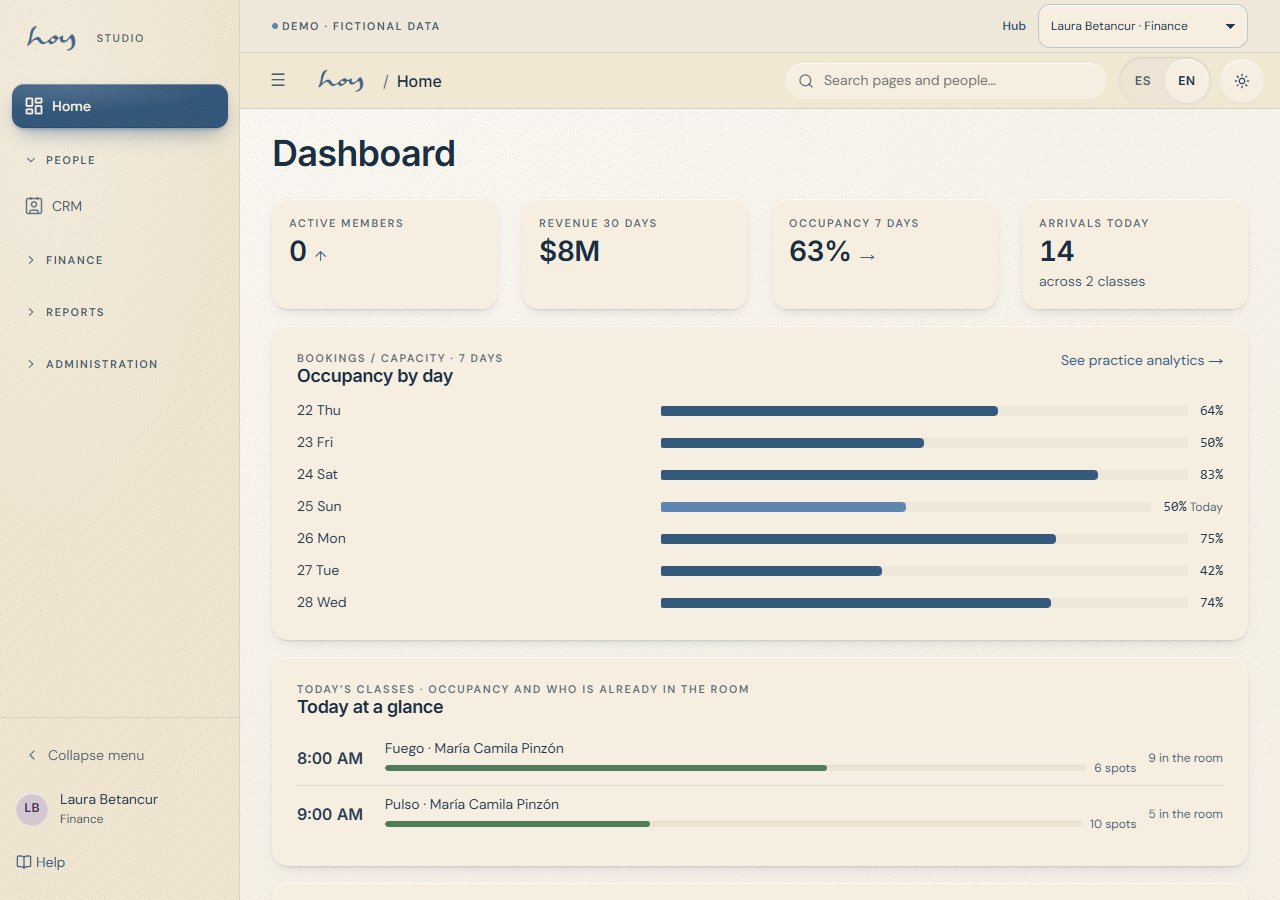
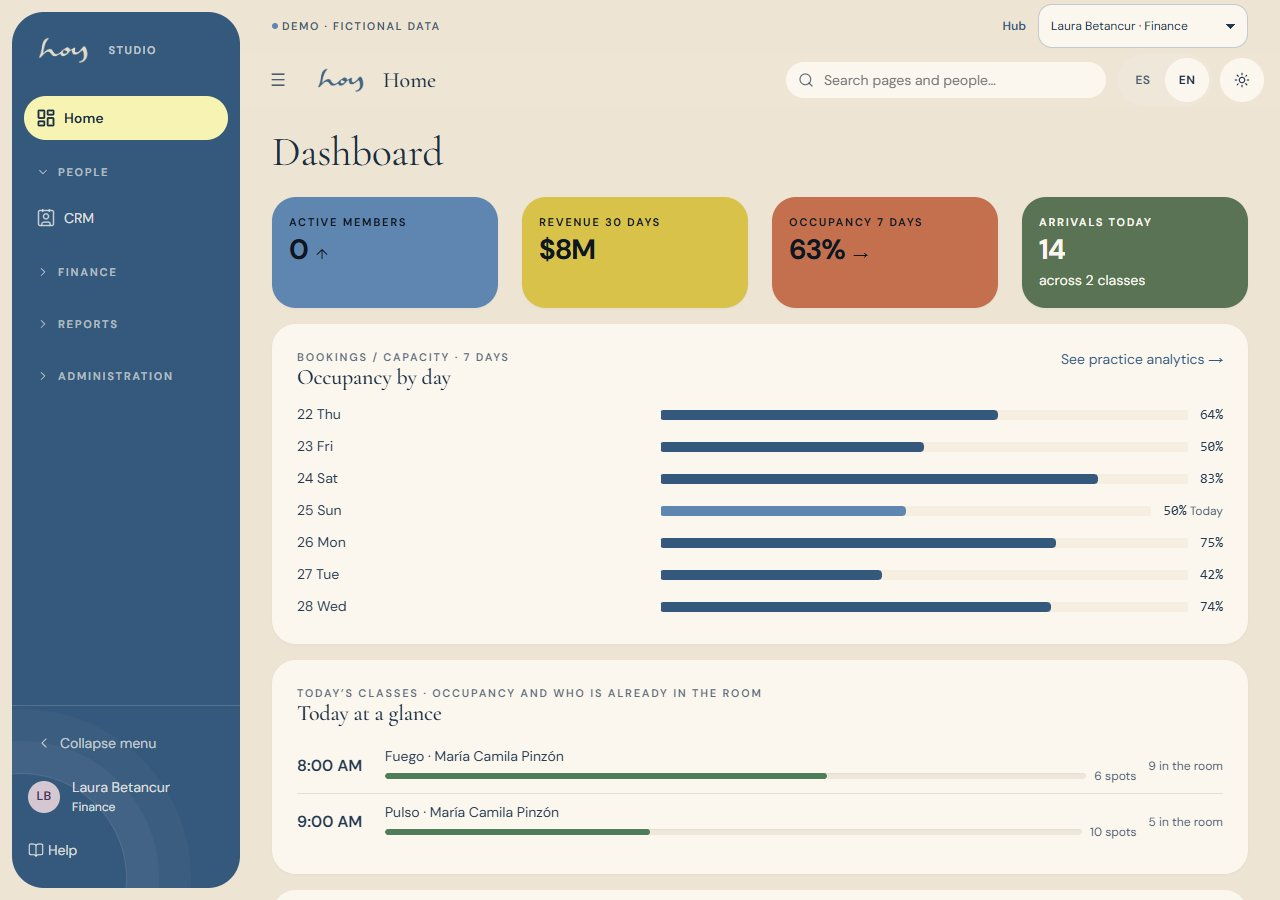
feat: Studio look - the staff workspace in Pulso (0160)
D-01 gains a `studio` look on :root[data-look="studio"]: the coming-soon
materials (cream ground, paper tiles, flat surfaces, larger radii, DM Sans
for controls, ink primary in light; dark keeps the river accent). DesktopShell
sets the attribute on <html> before paint and removes it on unmount, so
drawers and toasts follow and the member app and website never change.

Shared components restyled in that scope: Card (serif title, river hero with
breathing rings and a sun action), StatTile (class-tone tiles in grids), Tabs
(pill track), Toast (ink tile), Notice (sun info), EmptyState (italic serif),
Button (cream secondary), Badge (deeper success/warn inks). DesktopShell: the
river sidebar tile with the sun active pill, serif page name.

Also: dark bell count and room-grid "Ahora" take the dark ground (1.9:1).

Pages: every S-*, M-* and D-* page through DesktopShell; D-01 shows the
studio tokens.

diff --git a/src/components/template/DesktopShell/DesktopShell.css b/src/components/template/DesktopShell/DesktopShell.css
@@ -100,3 +100,42 @@
 .deskshell-link.is-active .deskshell-badge { background: rgba(255, 255, 255, .2); color: inherit; border-color: transparent; }
 .deskshell-foot a .icon { margin-right: var(--sp-xs); }
 .deskshell-hublink { flex: 0 0 auto; display: inline-flex; align-items: center; min-height: var(--h-ctl-sm); font-size: var(--fs-xs); font-weight: var(--fw-semibold); white-space: nowrap; }
+
+/* 0160 · Studio look (Pulso for staff): the sidebar is the coming-soon blue tile floating on the cream ground, with the
+   breathing rings, cream text and the active item as the sun pill; the top bar sits on the ground with a serif page name. */
+.deskshell { background: var(--color-bg); }
+.deskshell-side { margin: var(--sp-md) 0 var(--sp-md) var(--sp-md); top: var(--sp-md); height: calc(100vh - 2 * var(--sp-md)); border-radius: var(--r-lg); background-color: var(--brand-deepBlue); background-image: none; box-shadow: none; color: var(--brand-white); isolation: isolate; }
+:root[data-theme="dark"] .deskshell-side { background-color: color-mix(in srgb, var(--brand-deepBlue) 62%, #000); }
+.deskshell-side::after { content: ""; position: absolute; z-index: -1; left: calc(-1 * var(--sp-5xl)); bottom: calc(-1 * var(--sp-5xl)); width: calc(var(--sp-5xl) * 2.2); height: calc(var(--sp-5xl) * 2.2); border-radius: var(--r-full); border: 1.5px solid color-mix(in srgb, var(--brand-white) 14%, transparent); box-shadow: 0 0 0 var(--sp-2xl) color-mix(in srgb, var(--brand-white) 4%, transparent), 0 0 0 var(--sp-4xl) color-mix(in srgb, var(--brand-white) 2.5%, transparent); pointer-events: none; }
+@supports (height: 100dvh) { .deskshell-side { height: calc(100dvh - 2 * var(--sp-md)); } }
+.deskshell-title { color: color-mix(in srgb, var(--brand-white) 70%, transparent); }
+.deskshell-grouplabel, .deskshell-grouplabel:hover { color: color-mix(in srgb, var(--brand-white) 62%, transparent); }
+.deskshell-grouplabel:hover { background: color-mix(in srgb, var(--brand-white) 8%, transparent); }
+.deskshell-link { border-radius: var(--r-full); color: color-mix(in srgb, var(--brand-white) 86%, transparent); }
+.deskshell-link:hover { background: color-mix(in srgb, var(--brand-white) 10%, transparent); color: var(--brand-white); }
+.deskshell-link.is-active { background-color: var(--brand-yellow); background-image: none; color: var(--brand-ink); font-weight: var(--fw-semibold); box-shadow: none; }
+.deskshell-code { color: color-mix(in srgb, var(--brand-white) 60%, transparent); }
+.deskshell-sep { border-top-color: color-mix(in srgb, var(--brand-white) 18%, transparent); }
+.deskshell-side .deskshell-badge.badge-warn { background: var(--brand-yellow); color: var(--brand-ink); }
+.deskshell-side .deskshell-badge.badge-primary { background: color-mix(in srgb, var(--brand-white) 18%, transparent); color: var(--brand-white); }
+.deskshell-side .deskshell-link.is-active .deskshell-badge { background: color-mix(in srgb, var(--brand-ink) 14%, transparent); color: var(--brand-ink); }
+.deskshell-workspace { background: color-mix(in srgb, var(--brand-white) 12%, transparent); border-radius: var(--r-full); }
+.deskshell-ws { border-radius: var(--r-full); color: color-mix(in srgb, var(--brand-white) 80%, transparent); }
+.deskshell-ws:hover { color: var(--brand-white); }
+.deskshell-ws.is-on { background: var(--brand-yellow); color: var(--brand-ink); box-shadow: none; }
+.deskshell-foot { box-shadow: inset 0 1px 0 color-mix(in srgb, var(--brand-white) 16%, transparent); }
+.deskshell-foot, .deskshell-foot a, .deskshell-foot .muted { color: color-mix(in srgb, var(--brand-white) 82%, transparent); }
+.deskshell-foot a:hover { color: var(--brand-white); }
+.deskshell-collapse { color: color-mix(in srgb, var(--brand-white) 70%, transparent); border-radius: var(--r-full); }
+.deskshell-collapse:hover { background: color-mix(in srgb, var(--brand-white) 10%, transparent); color: var(--brand-white); }
+.deskshell-side :focus-visible { outline-color: var(--brand-yellow); }
+.deskshell-demobar { background: transparent; border-bottom: 0; }
+.deskshell-col .topbar { background: color-mix(in srgb, var(--color-bg) 88%, transparent); border-bottom: 0; }
+.deskshell-col .topbar-page { font-family: var(--font-editorial); font-size: var(--fs-xl); font-weight: var(--fw-medium); }
+.deskshell-col .topbar-page::before { display: none; }
+.deskshell-iconbtn { border-color: transparent; background: var(--color-surface); box-shadow: none; }
+@media (max-width: 900px) {
+  .deskshell-side { margin: 0; top: 0; height: 100vh; border-radius: 0 var(--r-lg) var(--r-lg) 0; }
+  @supports (height: 100dvh) { .deskshell-side { height: 100dvh; } }
+}.deskshell.is-rail { grid-template-columns: calc(var(--w-rail) + var(--sp-md)) minmax(0, 1fr); }
+@media (max-width: 900px) { .deskshell.is-rail { grid-template-columns: 1fr; } }.deskshell-nav { scrollbar-width: thin; scrollbar-color: color-mix(in srgb, var(--brand-white) 30%, transparent) transparent; }

diff --git a/src/design/tokens.ts b/src/design/tokens.ts
@@ -414,7 +414,35 @@ export const UI_SCALE: readonly { minWidth: number; ui: number; minText: number 
   { minWidth: BREAKPOINTS.hd, ui: 1.125, minText: 16 }, { minWidth: BREAKPOINTS.qhd, ui: 1.375, minText: 16 }, { minWidth: BREAKPOINTS.uhd, ui: 1.75, minText: 16 },
 ];
 
-export const tokens = { brand, palette, rgb, classTones, semantic, bridge, shadows, textures, materials, surfaces, hues, type, spacing, spacingLegacy, spacingSemantic, radii, motion, icons, layout: layoutTokens, breakpoints: breakpointVars };
+/**
+ * 0160 · Studio look — Pulso for the staff workspace. DesktopShell sets `data-look="studio"` on <html> while it is
+ * mounted, so every staff, admin and build page (and the drawers and toasts they portal to <body>) renders on the
+ * coming-soon materials: cream ground, paper tiles, flat (no grain, no stone shadows), ink pills for primary actions,
+ * larger radii. The member app and the website never set it. Only existing palette values are used; the wireframe skin
+ * still wins (every selector excludes it), and the semantic aliases re-resolve because they are declared on :root.
+ */
+export const studio = {
+  light: {
+    'color-bg': palette.c20, 'color-surface': brand.white, 'color-surface-elevated': '#FFFCF6', 'color-surface-2': palette.c19,
+    'color-surface-3': palette.c17, 'color-surface-4': palette.c16, 'color-card-border': 'transparent',
+    'color-accent-fill': brand.ink, 'color-accent-fill-hover': palette.c2, 'color-text-on-primary': brand.white,
+  },
+  dark: {
+    'color-bg': '#101C29', 'color-surface': '#1B2E44', 'color-surface-elevated': '#22384F', 'color-surface-2': '#22384F',
+    // The dark accent stays the base dark one (river fill, cream text): --color-text-on-primary also sits on blue
+    // surfaces (room blocks, the next-class card), so inverting it to navy would break them.
+    'color-surface-3': '#2A4159', 'color-surface-4': '#31506E', 'color-card-border': 'transparent',
+  },
+  /** Theme-independent: Pulso's shapes and flat surfaces; numbers and controls in DM Sans (titles go serif in global.css). */
+  shape: {
+    'r-ctl': '0.875rem', 'r-md': '1.5rem', 'r-lg': '2rem', 'font-heading': type['font-body'],
+    'shadow-card': '0 1px 2px rgba(var(--m-shade),.05)', 'shadow-raised': '0 24px 60px -24px rgba(var(--m-shade),.45)',
+    'shadow-accent': 'none', 'shadow-highlight': 'none', 'shadow-contact': 'none', 'shadow-pressed': 'none', 'shadow-inverse': 'none',
+    'tex-lane-on': 'none', 'tex-surf-on': 'none', 'tex-accent-on': 'none',
+  },
+} as const;
+
+export const tokens = { brand, palette, rgb, classTones, semantic, bridge, shadows, textures, materials, surfaces, hues, type, spacing, spacingLegacy, spacingSemantic, radii, motion, icons, layout: layoutTokens, breakpoints: breakpointVars, studio };
 
 function vars(obj: Record<string, string>): string {
   return Object.entries(obj).map(([k, v]) => `  --${k}: ${v};`).join('\n');
@@ -487,6 +515,16 @@ ${vars(semantic.dark)}
   --tex-surf-on: none;
   --color-card-border: rgba(241,231,210,.06);
   color-scheme: dark;
+}
+/* 0160 · Studio look (Pulso for the staff workspace), set by DesktopShell */
+:root[data-look="studio"]:not([data-skin="wireframe"]):not([data-theme="dark"]) {
+${vars(studio.light)}
+}
+:root[data-look="studio"][data-theme="dark"]:not([data-skin="wireframe"]) {
+${vars(studio.dark)}
+}
+:root[data-look="studio"]:not([data-skin="wireframe"]) {
+${vars(studio.shape)}
 }
 :root[data-skin="wireframe"] {
   --color-ground: #F6F5F2;

diff --git a/src/components/molecule/Card/Card.meta.ts b/src/components/molecule/Card/Card.meta.ts
@@ -12,7 +12,8 @@ export default defineMeta({
     { name: 'tone', type: "'surface' | 'primary' | 'highlight' | 'muted'", default: 'surface', description: { es: 'Material.', en: 'Material.' } },
     { name: 'raised / interactive', type: 'boolean', description: { es: 'Elevación mayor / hover que levanta.', en: 'Higher elevation / lifting hover.' } },
   ],
-  states: ['local catalog publication review / price snapshot (M-16/M-17)', 'CRM linked balance card (M-06)', 'arched teacher card', 'default', 'with icon', 'raised', 'interactive-hover'],
+  states: [
+    'studio look (0160): flat paper tile, serif title; primary = the river hero with breathing rings','local catalog publication review / price snapshot (M-16/M-17)', 'CRM linked balance card (M-06)', 'arched teacher card', 'default', 'with icon', 'raised', 'interactive-hover'],
   usages: [{ title: { es: 'Publicación local · M-16/M-17', en: 'Local publication · M-16/M-17' }, render: () => h(Card, { title: 'Paquete ficticio / Fictional package', tone: 'highlight' }, h('p', null, 'Solo vista previa local / Local preview only'), h('strong', null, '100.000 COP · #1'), h('p', null, '2026-10-01 – 2026-10-31'), h('button', { disabled: true, className: 'btn btn-secondary' }, 'Compra desconectada / Purchase disconnected')) }, { title: { es: 'Saldo CRM · M-06', en: 'CRM balance · M-06' }, render: () => h('a', { href: '#/admin/crm/usr_cust', className: 'crm-person-link' }, h(Card, { padding: 'sm' }, h('strong', null, 'Persona de prueba / Sample person'), h('div', null, 'Paquete / Package'), h('div', null, 'Clases restantes / Classes left: 9'), h('div', null, 'Vencimiento / Expiry: 2026-11-20'))) }, { title: { es: 'Maestro · arco completo', en: 'Teacher · full arch' }, render: () => h('div', { className: 'site', 'data-edition': 'sanctuary', style: { maxWidth: 340 } }, h(Card, { className: 'site-teacher' }, h('div', { className: 'site-teacher-monogram', 'data-tone': 'clay', role: 'img', 'aria-label': 'Profesora de muestra / Sample teacher' }, h('span', { 'aria-hidden': true }, 'MP')), h('div', { className: 'site-teacher-copy' }, 'Monograma en el tono de su clase (0051) / Monogram in the class tone'))) },{ title: { es: 'Tonos', en: 'Tones' }, render: () => h('div', { className: 'grid grid-2' }, h(Card, { eyebrow: 'Hoy', title: 'Fuego · 6:30' }, 'Superficie.'), h(Card, { tone: 'primary', title: 'Próxima clase' }, 'Primario.'), h(Card, { tone: 'highlight', title: 'Mejor valor' }, 'Realce.'), h(Card, { tone: 'muted', interactive: true, title: 'Interactiva' }, 'Pasa el cursor.')) }, { title: { es: 'Con icono (M-08)', en: 'With icon (M-08)' }, render: () => h('div', { className: 'grid grid-2' }, h(Card, { icon: 'clock', title: 'Horarios' }, 'Sección de ajustes.'), h(Card, { icon: 'policies', eyebrow: 'M-08a', title: 'Políticas' }, 'Con eyebrow.')) }],
   a11y: [{ es: 'Si es interactiva, el hijo debe tener el control accesible (botón o enlace).', en: 'When interactive, the child must hold the accessible control (button or link).' }],
   usedBy: ['C-08', 'M-09b', 'S-04', 'M-08a', 'M-18', 'D-07', 'MaintenanceWorkbench', 'M-10a', 'ProblemReport', 'S-09', 'M-16', 'M-17', 'M-06', 'M-14', 'S-07', 'S-08', 'C-29', 'M-15', 'P-02', 'M-13', 'C-28', 'C-01', 'HUB', 'P-01', 'M-03', 'M-08', 'D-01', 'D-02'],

diff --git a/src/modules/dev/TokensPage.tsx b/src/modules/dev/TokensPage.tsx
@@ -1,6 +1,6 @@
 import { useI18n } from '../../i18n/I18nProvider';
 import { useTheme } from '../../design/ThemeProvider';
-import { brand, classTones, icons, materials, motion, palette, radii, rgb, semantic, shadows, spacing, spacingSemantic, surfaces, textures, type as typeTokens } from '../../design/tokens';
+import { brand, classTones, icons, materials, motion, palette, radii, rgb, semantic, shadows, spacing, spacingSemantic, studio, surfaces, textures, type as typeTokens } from '../../design/tokens';
 import { Card } from '../../components/molecule/Card/Card';
 import { Toggle } from '../../components/atom/Toggle/Toggle';
 import { Icon } from '../../components/atom/Icon/Icon';
@@ -20,6 +20,10 @@ export function TokensPage() {
       <Card title={t('dev.tokens.brand')} eyebrow="HOY 2026 · p8-1"><div className="tok-swatches">{Object.entries(brand).map(([k, v]) => <Swatch key={k} name={`brand-${k}`} value={v} />)}</div></Card>
       <Card title={t('dev.tokens.palette')} eyebrow="canvas --c1 … --c26 · data-brand=&quot;hoy&quot;"><div className="tok-swatches tok-swatches-dense">{Object.entries(palette).map(([k, v]) => <Swatch key={k} name={`hoy-${k}`} value={v} small />)}</div></Card>
       <Card title={t('dev.tokens.semantic', { theme })}><div className="tok-swatches">{Object.entries(sem).filter(([k]) => k.startsWith('color-')).map(([k, v]) => <Swatch key={k} name={k} value={v} live />)}</div></Card>
+      <Card title={t('dev.tokens.studio')} eyebrow={`:root[data-look="studio"] · ${theme}`}>
+        <div className="tok-swatches">{Object.entries(studio[theme]).map(([k, v]) => <Swatch key={k} name={k} value={v} live />)}</div>
+        <div className="tok-grid">{Object.entries(studio.shape).map(([k, v]) => <div key={k} className="tok-row"><code>--{k}</code><span className="xs muted">{v}</span></div>)}</div>
+      </Card>
       <Card title={t('dev.tokens.rgb')} eyebrow="canvas --m1 … --m10"><div className="tok-grid">{Object.entries(triplets).map(([k, v]) => <div key={k} className="tok-row"><span className="tok-dot" style={{ background: `rgb(${v})`, width: 16, height: 16 }} /><code>--{k}</code><span className="xs muted">{v}</span></div>)}</div></Card>
       <Card title={t('dev.tokens.tones')} eyebrow="--tone-<id>-fg · -dot · -bg"><div className="tok-swatches">{Object.entries(classTones).map(([k, m]) => <div key={k} className="tok-tone" style={{ background: m.bg, color: m.fg }}><span className="tok-dot" style={{ background: m.dot }} />{k}<code className="xs">{m.dot}</code></div>)}</div></Card>
 

diff --git a/src/components/molecule/Card/Card.css b/src/components/molecule/Card/Card.css
@@ -25,3 +25,14 @@
 .card-head.has-icon { align-items: center; flex-wrap: nowrap; }
 .card-head.has-icon > .grow { flex: 1 1 auto; }
 .card-icon { flex: 0 0 auto; width: var(--icon-tile); height: var(--icon-tile); border-radius: var(--r-ctl); display: inline-flex; align-items: center; justify-content: center; background: color-mix(in srgb, var(--color-primary) 10%, var(--color-surface-2)); color: var(--color-primary); }
+
+/* 0160 · Studio look: cards are flat paper tiles with serif titles; the primary card is the coming-soon blue hero with its
+   breathing rings and a sun action. */
+:root[data-look="studio"] .card-title { font-family: var(--font-editorial); font-weight: var(--fw-medium); font-size: var(--fs-xl); letter-spacing: -0.01em; }
+:root[data-look="studio"] .card-primary { background-color: var(--brand-deepBlue); color: var(--brand-white); overflow: hidden; isolation: isolate; }
+:root[data-look="studio"][data-theme="dark"] .card-primary { background-color: color-mix(in srgb, var(--brand-deepBlue) 70%, #000); }
+:root[data-look="studio"] .card-primary::after { content: ""; position: absolute; z-index: -1; right: calc(-1 * var(--sp-4xl)); top: calc(-1 * var(--sp-4xl)); width: calc(var(--sp-5xl) * 2.4); height: calc(var(--sp-5xl) * 2.4); border-radius: var(--r-full); border: 1.5px solid color-mix(in srgb, var(--brand-white) 22%, transparent); box-shadow: 0 0 0 var(--sp-2xl) color-mix(in srgb, var(--brand-white) 5%, transparent), 0 0 0 var(--sp-4xl) color-mix(in srgb, var(--brand-white) 3.5%, transparent); animation: studio-breathe var(--dur-breath) var(--ease-in-out) infinite alternate; pointer-events: none; }
+@keyframes studio-breathe { from { transform: scale(1); } to { transform: scale(1.08); } }
+@media (prefers-reduced-motion: reduce) { :root[data-look="studio"] .card-primary::after { animation: none; } }
+:root[data-look="studio"] .card-primary .btn-primary { background-color: var(--brand-yellow); color: var(--brand-ink); }
+:root[data-look="studio"] .card-primary .btn-primary:hover:not(:disabled) { background-color: var(--brand-white); }

diff --git a/src/components/template/DesktopShell/DesktopShell.tsx b/src/components/template/DesktopShell/DesktopShell.tsx
@@ -1,4 +1,4 @@
-import { useCallback, useEffect, useMemo, useId, useRef, useState, type ReactNode } from 'react';
+import { useCallback, useEffect, useLayoutEffect, useMemo, useId, useRef, useState, type ReactNode } from 'react';
 import { Link, NavLink, matchPath, useLocation } from 'react-router-dom';
 import type { RouteDef, Surface, NavBadge } from '../../../specs/types';
 import { useI18n } from '../../../i18n/I18nProvider';
@@ -100,6 +100,14 @@ export function DesktopShell({ surfaces, routes, titleKey, children }: DesktopSh
   const collapsedKey = `${preferenceScope}.collapsed`;
   const groupId = useId();
   const groupsKey = `${preferenceScope}.groups`;
+
+  // 0160 · the Studio look (Pulso for staff, D-01 `studio`) lives on <html> so drawers and toasts portalled to <body>
+  // follow it; set before paint, removed when the person leaves for the member app or the website.
+  useLayoutEffect(() => {
+    const root = document.documentElement;
+    root.dataset.look = 'studio';
+    return () => { delete root.dataset.look; };
+  }, []);
 
   const [collapsed, setCollapsed] = usePreference(collapsedKey, false);
   const [folded, setFolded] = usePreference(groupsKey, DEFAULT_FOLDED);
@@ -214,7 +222,7 @@ export function DesktopShell({ surfaces, routes, titleKey, children }: DesktopSh
     <div className={`deskshell ${rail ? 'is-rail' : ''} ${drawer ? 'is-open' : ''}`}>
       <aside ref={sideRef} className="deskshell-side" aria-hidden={narrow && !drawer ? true : undefined} aria-label={t('core.shell.sections')}>
         <div className="deskshell-brand">
-          <Link to={homeTo} className="deskshell-mark" title={t('core.nav.home')}><Wordmark height={rail ? 15 : 26} /></Link>
+          <Link to={homeTo} className="deskshell-mark" title={t('core.nav.home')}><Wordmark height={rail ? 15 : 26} variant="cream" /></Link>
           {!rail && !(canBuild && canStudio) && <span className="deskshell-title">{title}</span>}
         </div>
         {canBuild && canStudio && !rail && (

diff --git a/src/components/molecule/StatTile/StatTile.css b/src/components/molecule/StatTile/StatTile.css
@@ -7,3 +7,13 @@
 /* Label and hint: one or two lines, then an ellipsis — never a third line pushing the tile taller than its neighbours. */
 .stat-label, .stat-hint { display: -webkit-box; -webkit-box-orient: vertical; -webkit-line-clamp: 2; overflow: hidden; overflow-wrap: anywhere; }
 .stat-up { color: var(--color-primary); } .stat-down { color: var(--color-danger); } .stat-flat { color: var(--color-text-muted); }
+
+/* 0160 · Studio look: KPI rows become class-tone tiles (river, sun, clay, moss), as on the coming-soon class tiles.
+   Deep ink on river, sun and clay; paper on moss; every child inherits so labels, hints and trends stay legible. */
+:root[data-look="studio"] .stat-value { font-weight: var(--fw-bold); letter-spacing: -0.03em; }
+:root[data-look="studio"] :is(.grid, .grid-4, .grid-3, .grid-2) > .stat { --stat-ink: color-mix(in srgb, var(--brand-ink) 50%, #000); background-color: var(--stat-tile, var(--color-surface)); color: var(--stat-ink); }
+:root[data-look="studio"] :is(.grid, .grid-4, .grid-3, .grid-2) > .stat:nth-child(4n+1) { --stat-tile: var(--tone-river-dot); }
+:root[data-look="studio"] :is(.grid, .grid-4, .grid-3, .grid-2) > .stat:nth-child(4n+2) { --stat-tile: var(--tone-sun-dot); }
+:root[data-look="studio"] :is(.grid, .grid-4, .grid-3, .grid-2) > .stat:nth-child(4n+3) { --stat-tile: var(--tone-clay-dot); }
+:root[data-look="studio"] :is(.grid, .grid-4, .grid-3, .grid-2) > .stat:nth-child(4n+4) { --stat-tile: var(--tone-moss-dot); --stat-ink: var(--brand-white); }
+:root[data-look="studio"] :is(.grid, .grid-4, .grid-3, .grid-2) > .stat :is(.stat-label, .stat-hint, .stat-value, .stat-trend, .stat-up, .stat-down, .muted, .eyebrow, .small) { color: inherit; }

diff --git a/src/components/atom/Badge/Badge.meta.ts b/src/components/atom/Badge/Badge.meta.ts
@@ -6,7 +6,8 @@ export default defineMeta({
   tier: 'atom', name: 'Badge',
   description: { es: 'Etiqueta de estado compacta con seis tonos. toneForStatus() mapea strings comunes.', en: 'Compact status label with six tones. toneForStatus() maps common strings.' },
   props: [{ name: 'tone', type: "'neutral' | 'primary' | 'success' | 'warn' | 'danger' | 'highlight'", default: 'neutral', description: { es: 'Color semántico.', en: 'Semantic colour.' } }],
-  states: ['booking linked payment pending / confirmed / released / unknown', 'default'],
+  states: [
+    'studio look (0160): success and warn inks a step deeper on the paper tiles (4.5:1)','booking linked payment pending / confirmed / released / unknown', 'default'],
   usages: [{ title: { es: 'Estado de pago vinculado a reserva', en: 'Booking linked payment status' }, render: () => h('div', {className: 'stack-sm'}, h(Badge, {tone: 'success'}, 'Pago confirmado'), h(Badge, null, 'Pendiente de confirmación'), h(Badge, null, 'Pago liberado'), h(Badge, null, 'Estado del pago no disponible')) }, { title: { es: 'Tonos', en: 'Tones' }, render: () => h('div', { className: 'row wrap' }, h(Badge, null, 'neutral'), h(Badge, { tone: 'primary' }, 'booked'), h(Badge, { tone: 'success' }, 'active'), h(Badge, { tone: 'warn' }, 'pending'), h(Badge, { tone: 'danger' }, 'cancelled'), h(Badge, { tone: 'highlight' }, 'Mejor valor')) }],
   a11y: [{ es: 'Solo color + texto; nunca solo color.', en: 'Colour plus text; never colour alone.' }],
   usedBy: ['C-08', 'M-08a', 'M-18', 'S-09', 'S-07', 'S-08', 'C-29', 'M-15', 'P-02', 'M-03', 'P-01', 'C-01', 'DEV-SPECS', 'HUB-01', 'M-08g', 'M-10', 'M-10a', 'D-07'],

diff --git a/src/components/molecule/StatTile/StatTile.meta.ts b/src/components/molecule/StatTile/StatTile.meta.ts
@@ -11,7 +11,8 @@ export default defineMeta({
     { name: 'hint', type: 'string', description: { es: 'Contexto. Máximo dos líneas.', en: 'Context. Two lines at most.' } },
     { name: 'trend', type: "'up' | 'down' | 'flat'", description: { es: 'Flecha coloreada; conserva su tamaño aunque el valor se encoja.', en: 'Coloured arrow; keeps its size even when the value shrinks.' } },
   ],
-  states: ['default', 'trend-up', 'trend-down', 'long-value'],
+  states: [
+    'studio look (0160): in a grid the tiles take the class tones river, sun, clay, moss in turn (deep ink; paper on moss)','default', 'trend-up', 'trend-down', 'long-value'],
   usages: [
     { title: { es: 'Fila de tres', en: 'Row of three' }, render: () => h('div', { className: 'grid grid-3' }, h(StatTile, { label: 'Clases este mes', value: 12, trend: 'up', hint: '+3 vs. agosto' }), h(StatTile, { label: 'Racha', value: '4 sem', trend: 'flat' }), h(StatTile, { label: 'Ocupación', value: '82%', trend: 'down', hint: 'promedio 7 días' })) },
     { title: { es: 'Valor largo en columna estrecha (0019)', en: 'Long value in a narrow column (0019)' }, render: () => h('div', { style: { display: 'grid', gridTemplateColumns: 'repeat(3, 118px)', gap: 12 } }, h(StatTile, { label: 'Nómina estimada', value: 'COP 15,326,000', trend: 'up', hint: 'clases dictadas × tarifa' }), h(StatTile, { label: 'Balance del periodo', value: '− $ 8.113.800', trend: 'down', hint: 'margen −53 % sobre ingresos' }), h(StatTile, { label: 'Última visita registrada en el estudio', value: 'mié, 17 sept', hint: 'una etiqueta larga se corta en la segunda línea con puntos suspensivos' })) },

diff --git a/src/design/tokens.css b/src/design/tokens.css
@@ -376,6 +376,44 @@ html { font-size: calc(100% * var(--ui)); }
   --color-card-border: rgba(241,231,210,.06);
   color-scheme: dark;
 }
+/* 0160 · Studio look (Pulso for the staff workspace), set by DesktopShell */
+:root[data-look="studio"]:not([data-skin="wireframe"]):not([data-theme="dark"]) {
+  --color-bg: #EDE4D4;
+  --color-surface: #FBF7EF;
+  --color-surface-elevated: #FFFCF6;
+  --color-surface-2: #F5EEE1;
+  --color-surface-3: #EFE7DA;
+  --color-surface-4: #E3DBCB;
+  --color-card-border: transparent;
+  --color-accent-fill: #1C2E42;
+  --color-accent-fill-hover: #24384F;
+  --color-text-on-primary: #FBF7EF;
+}
+:root[data-look="studio"][data-theme="dark"]:not([data-skin="wireframe"]) {
+  --color-bg: #101C29;
+  --color-surface: #1B2E44;
+  --color-surface-elevated: #22384F;
+  --color-surface-2: #22384F;
+  --color-surface-3: #2A4159;
+  --color-surface-4: #31506E;
+  --color-card-border: transparent;
+}
+:root[data-look="studio"]:not([data-skin="wireframe"]) {
+  --r-ctl: 0.875rem;
+  --r-md: 1.5rem;
+  --r-lg: 2rem;
+  --font-heading: 'DM Sans', 'DM Sans Fallback', system-ui, -apple-system, 'Segoe UI', Roboto, Arial, sans-serif;
+  --shadow-card: 0 1px 2px rgba(var(--m-shade),.05);
+  --shadow-raised: 0 24px 60px -24px rgba(var(--m-shade),.45);
+  --shadow-accent: none;
+  --shadow-highlight: none;
+  --shadow-contact: none;
+  --shadow-pressed: none;
+  --shadow-inverse: none;
+  --tex-lane-on: none;
+  --tex-surf-on: none;
+  --tex-accent-on: none;
+}
 :root[data-skin="wireframe"] {
   --color-ground: #F6F5F2;
   --color-bg: #FFFFFF;

diff --git a/src/components/molecule/Tabs/Tabs.css b/src/components/molecule/Tabs/Tabs.css
@@ -11,3 +11,11 @@
 .tabs-count { min-width: var(--sp-xl); padding: 0 var(--sp-xs); border-radius: var(--r-full); background: var(--neutral-soft); color: var(--ink-muted); font-size: var(--fs-xs); font-variant-numeric: tabular-nums; text-align: center; line-height: 1.5; }
 .tabs-tab.is-active .tabs-count { background: var(--info-soft); color: var(--ink-brand); }
 @media (prefers-reduced-motion: reduce) { .tabs-tab, .tabs-tab::after { transition: none; } }
+
+/* 0160 · Studio look: tabs are a pill track with the active tab as the ink pill (Pulso's language toggle). */
+:root[data-look="studio"] .tabs { gap: var(--sp-2xs); padding: var(--sp-xs); border-bottom: 0; border-radius: var(--r-full); background: var(--color-surface-3); width: fit-content; max-width: 100%; }
+:root[data-look="studio"] .tabs-tab { min-height: var(--h-ctl-sm); padding: 0 var(--sp-md); border-radius: var(--r-full); font-weight: var(--fw-semibold); }
+:root[data-look="studio"] .tabs-tab::after { display: none; }
+:root[data-look="studio"] .tabs-tab.is-active { background: var(--color-accent-fill); color: var(--color-text-on-primary); }
+:root[data-look="studio"] .tabs-tab.is-active .tabs-count { background: color-mix(in srgb, var(--color-text-on-primary) 22%, transparent); color: inherit; }
+:root[data-look="studio"] .tabs-tab:focus-visible { border-radius: var(--r-full); }

diff --git a/src/components/atom/Button/Button.meta.ts b/src/components/atom/Button/Button.meta.ts
@@ -12,7 +12,8 @@ export default defineMeta({
     { name: 'block', type: 'boolean', default: 'false', description: { es: 'Ancho completo.', en: 'Full width.' } },
     { name: 'icon', type: 'IconName | ReactNode', description: { es: 'Icono a la izquierda: un nombre del set Icon o un nodo. Decorativo; la etiqueta nombra la acción.', en: 'Leading icon: an Icon set name or a node. Decorative; the label names the action.' } },
   ],
-  states: ['default', 'hover', 'active', 'focus', 'disabled', 'loading'],
+  states: [
+    'studio look (0160): primary is the ink pill (light) / river pill (dark), secondary a soft cream pill; on a primary card the action turns sun','default', 'hover', 'active', 'focus', 'disabled', 'loading'],
   usages: [
     { title: { es: 'Variantes', en: 'Variants' }, render: () => h('div', { className: 'row wrap' }, h(Button, null, 'Reservar'), h(Button, { variant: 'secondary' }, 'Ver horario'), h(Button, { variant: 'ghost' }, 'Cancelar'), h(Button, { variant: 'danger' }, 'Eliminar')) },
     { title: { es: 'Tamaños y estados', en: 'Sizes and states' }, render: () => h('div', { className: 'row wrap' }, h(Button, { size: 'sm' }, 'Pequeño'), h(Button, { size: 'lg' }, 'Grande'), h(Button, { loading: true }, 'Guardando'), h(Button, { disabled: true }, 'Deshabilitado')) },
